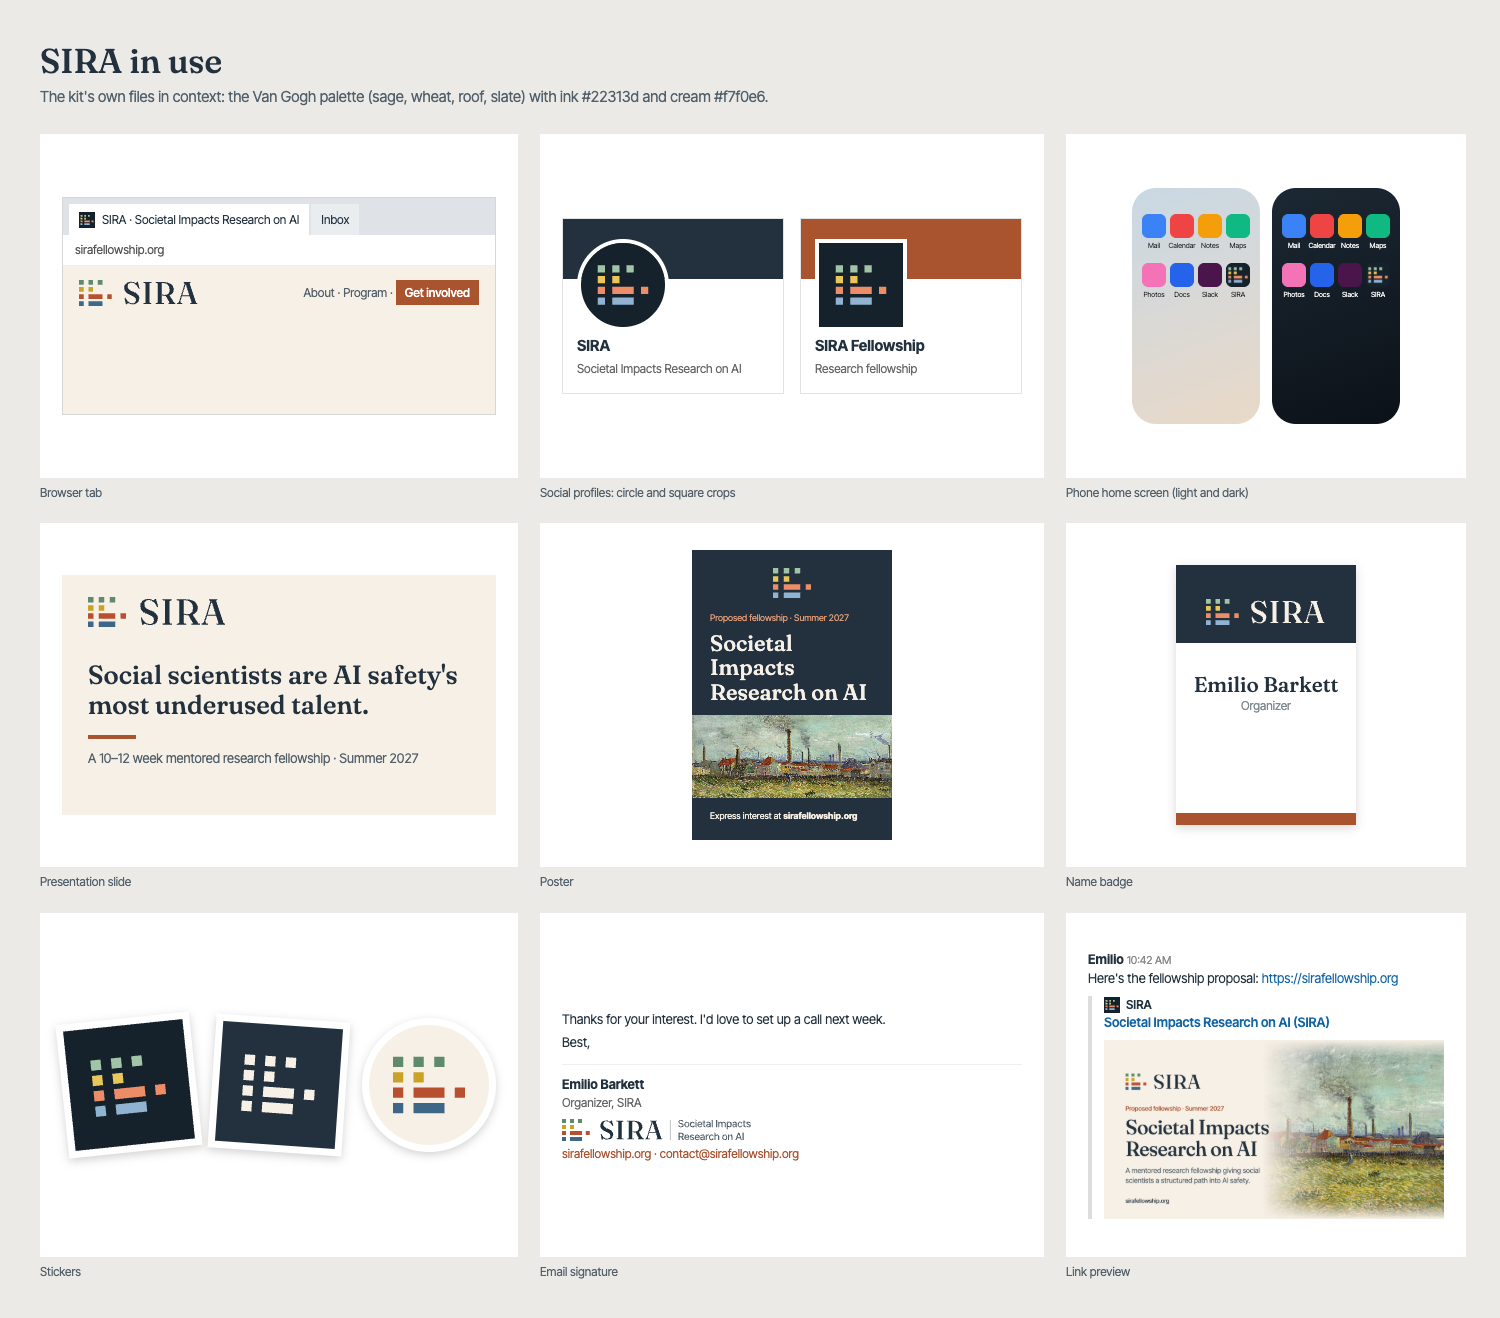
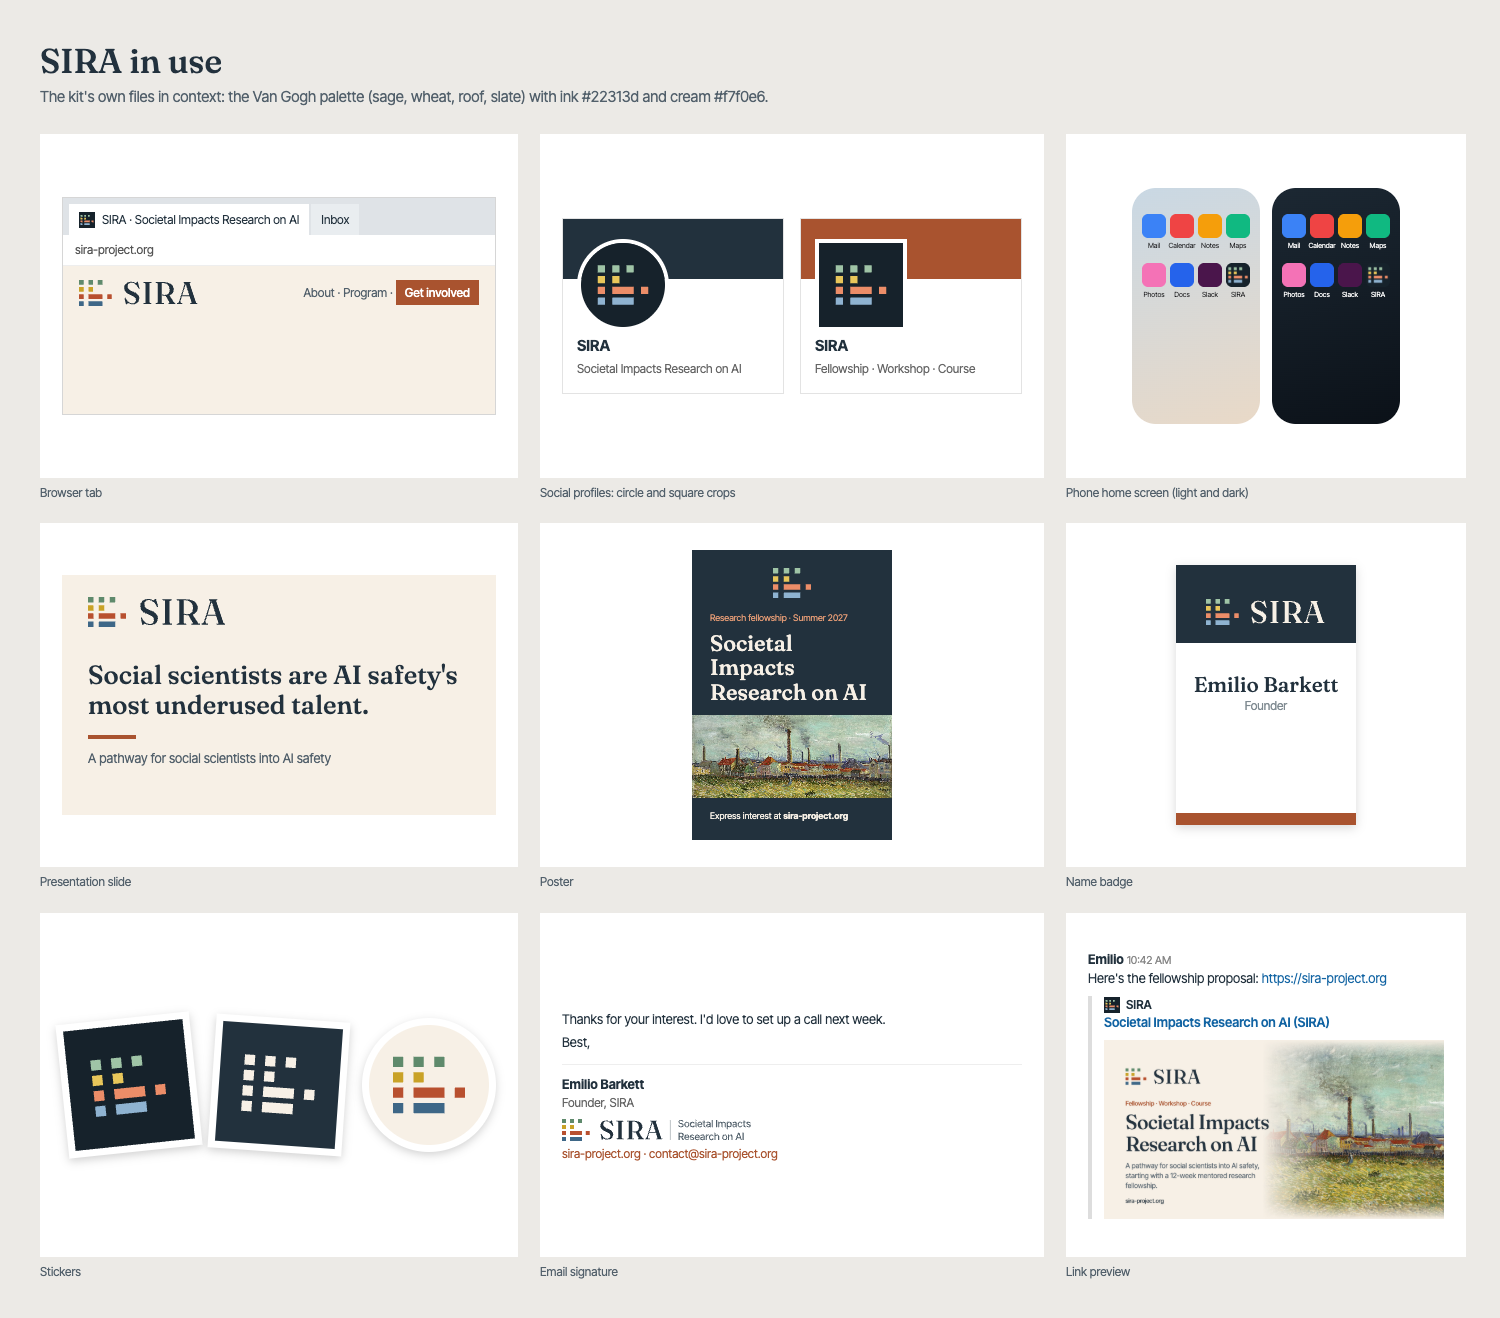
Course interest form; refresh brand mockups

diff --git a/course/index.html b/course/index.html
@@ -70,8 +70,8 @@
 
         <section class="wrap cta-wrap">
             <div class="cta-strip">
-                <p><strong>In development</strong> <span>Want to hear when the course is ready?</span></p>
-                <a class="cta-button" href="mailto:contact@sira-project.org?subject=SIRA%20online%20course">Get updates</a>
+                <p><strong>In development</strong> <span>Want to hear when the course is ready? Fill out a short interest form.</span></p>
+                <a class="cta-button" href="https://airtable.com/appjnZXuP3QQHiV6X/paghC8upZp2MixAno/form" target="_blank" rel="noopener">Express interest</a>
             </div>
         </section>
     </main>

diff --git a/tools/contact_sheet.py b/tools/contact_sheet.py
@@ -89,17 +89,17 @@ def mockups():
 <div class="page"><div class="pghdr">{logo(26)}<span class="nav">About · Program · <b>Get involved</b></span></div></div></div>'''),
         ("Social profiles: circle and square crops", f'''<div class="social">
 <div class="prof"><div class="banner" style="background:{INK}"></div><div class="av circle">{tile(84, small=False)}</div><div class="pinfo"><b>SIRA</b><span>Societal Impacts Research on AI</span></div></div>
-<div class="prof"><div class="banner" style="background:{TERRA}"></div><div class="av">{tile(84, small=False)}</div><div class="pinfo"><b>SIRA Fellowship</b><span>Research fellowship</span></div></div></div>'''),
+<div class="prof"><div class="banner" style="background:{TERRA}"></div><div class="av">{tile(84, small=False)}</div><div class="pinfo"><b>SIRA</b><span>Fellowship · Workshop · Course</span></div></div></div>'''),
         ("Phone home screen (light and dark)", f'''<div class="phones">{"".join(f"""<div class="phone" style="background:{bg}"><div class="grid">{"".join(f'<div class="app"><div class="ic" style="background:{c}"></div><span style="color:{fc}">{n}</span></div>' for n, c in [("Mail", "#3b82f6"), ("Calendar", "#ef4444"), ("Notes", "#f59e0b"), ("Maps", "#10b981"), ("Photos", "#f472b6"), ("Docs", "#2563eb"), ("Slack", "#4a154b")])}<div class="app"><img src="file://{ROOT}/apple-touch-icon.png" class="ic"><span style="color:{fc}">SIRA</span></div></div></div>""" for bg, fc in [("linear-gradient(160deg,#c9d8e4,#e9d9c7)", "#1d1d1f"), ("linear-gradient(160deg,#1c2833,#0b1118)", "#f2f2f2")])}</div>'''),
         ("Presentation slide", f'''<div class="slide">{logo(30)}<div class="sl-title">Social scientists are AI safety's most underused talent.</div>
-<div class="sl-rule"></div><div class="sl-sub">A 10–12 week mentored research fellowship · Summer 2027</div></div>'''),
-        ("Poster", f'''<div class="poster">{mark(30, "soft-dark")}<div class="ps-kick">Proposed fellowship · Summer 2027</div>
+<div class="sl-rule"></div><div class="sl-sub">A pathway for social scientists into AI safety</div></div>'''),
+        ("Poster", f'''<div class="poster">{mark(30, "soft-dark")}<div class="ps-kick">Research fellowship · Summer 2027</div>
 <div class="ps-title">Societal Impacts Research on AI</div><div class="ps-img" style="background-image:url('file://{painting}')"></div>
 <div class="ps-foot">Express interest at <b>sira-project.org</b></div></div>'''),
-        ("Name badge", f'''<div class="badge"><div class="bd-top">{logo(26, "dark")}</div><div class="bd-name">Emilio Barkett</div><div class="bd-role">Organizer</div><div class="bd-strip"></div></div>'''),
+        ("Name badge", f'''<div class="badge"><div class="bd-top">{logo(26, "dark")}</div><div class="bd-name">Emilio Barkett</div><div class="bd-role">Founder</div><div class="bd-strip"></div></div>'''),
         ("Stickers", f'''<div class="stickers"><div class="stk r1">{tile(120, small=False)}</div><div class="stk r2">{tile(120, "ink", False)}</div><div class="stk ci">{tile(120, "cream", False)}</div></div>'''),
         ("Email signature", f'''<div class="mail"><p>Thanks for your interest. I'd love to set up a call next week.</p><p>Best,</p>
-<div class="sig"><b>Emilio Barkett</b><div class="sg-role">Organizer, SIRA</div><div class="sg-logo">{logo(22, kind="full")}</div>
+<div class="sig"><b>Emilio Barkett</b><div class="sg-role">Founder, SIRA</div><div class="sg-logo">{logo(22, kind="full")}</div>
 <div class="sg-links">sira-project.org · contact@sira-project.org</div></div></div>'''),
         ("Link preview", f'''<div class="slack"><b>Emilio</b> <span class="t">10:42 AM</span><div>Here's the fellowship proposal: <a>https://sira-project.org</a></div>
 <div class="unfurl"><div class="uf-site">{tile(16)} SIRA</div><div class="uf-title">Societal Impacts Research on AI (SIRA)</div>
